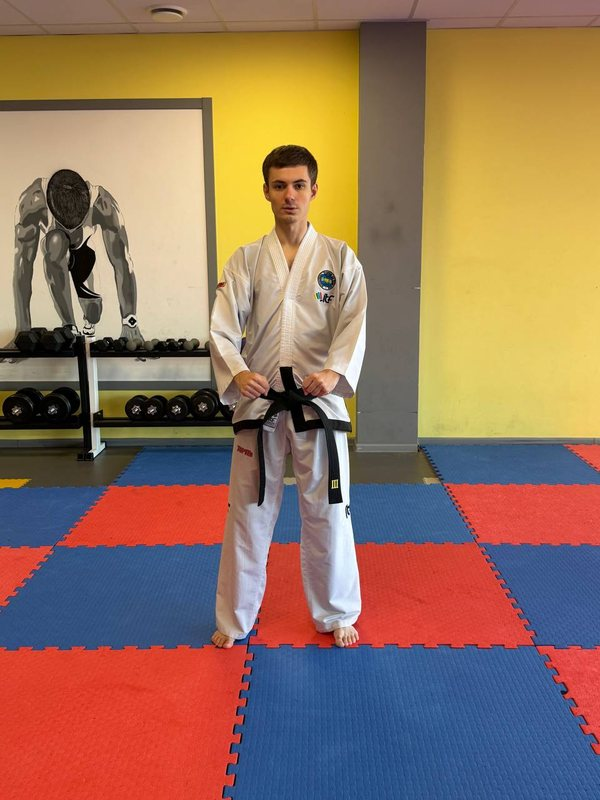
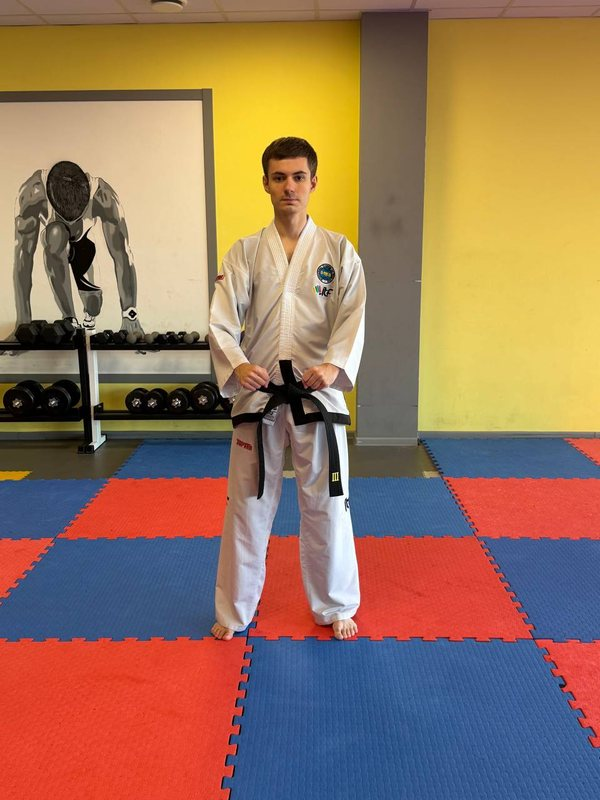
v0.16.2: replace Narani sogi photo
Claude-Session: https://claude.ai/code/session_01N7HyENmj4YEyenf1a8wfXd

diff --git a/sw.js b/sw.js
@@ -1,5 +1,5 @@
 /* Сервис-воркер: офлайн + автообновление. Версия подставляется при сборке. */
-const V = "tkd-0.16.1";
+const V = "tkd-0.16.2";
 self.addEventListener("install", e => { self.skipWaiting(); e.waitUntil(caches.open(V).then(c => c.addAll(["./", "index.html", "manifest.webmanifest", "icon-192.png"]).catch(() => {}))); });
 self.addEventListener("activate", e => { e.waitUntil(caches.keys().then(ks => Promise.all(ks.filter(k => k !== V && k !== "tkd-video").map(k => caches.delete(k)))).then(() => self.clients.claim())); });
 self.addEventListener("fetch", e => {

diff --git a/index.html b/index.html
@@ -492,7 +492,7 @@ const POSES = (() => {
 
 /* Содержание приложения. Источник: буклет аттестации + PDF «аттестация_новая версия3». */
 const DATA = {
-  version: "0.16.1",
+  version: "0.16.2",
   title: "Tkd guide",
   oath: [
     "Я буду любить свою Родину и делать все возможное для ее процветания.",
